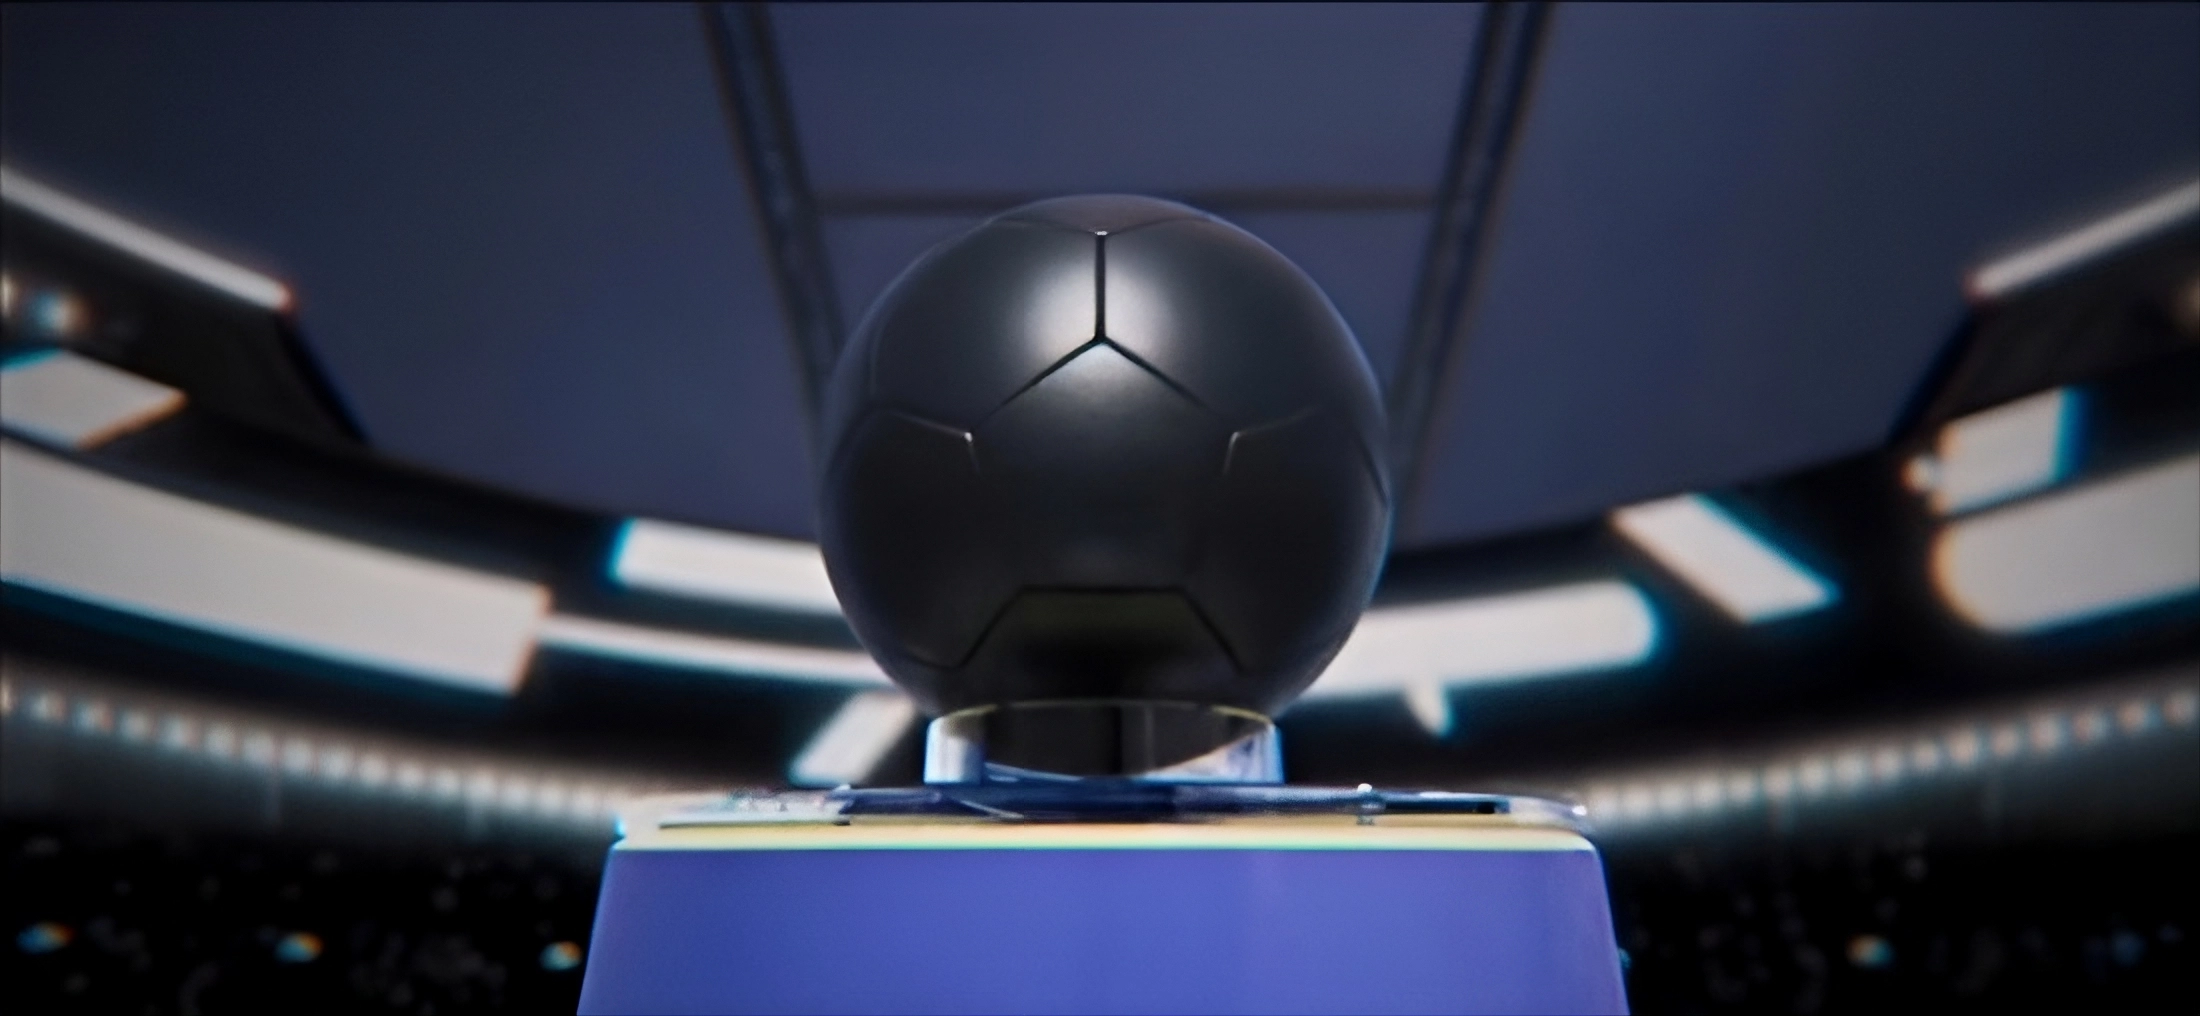
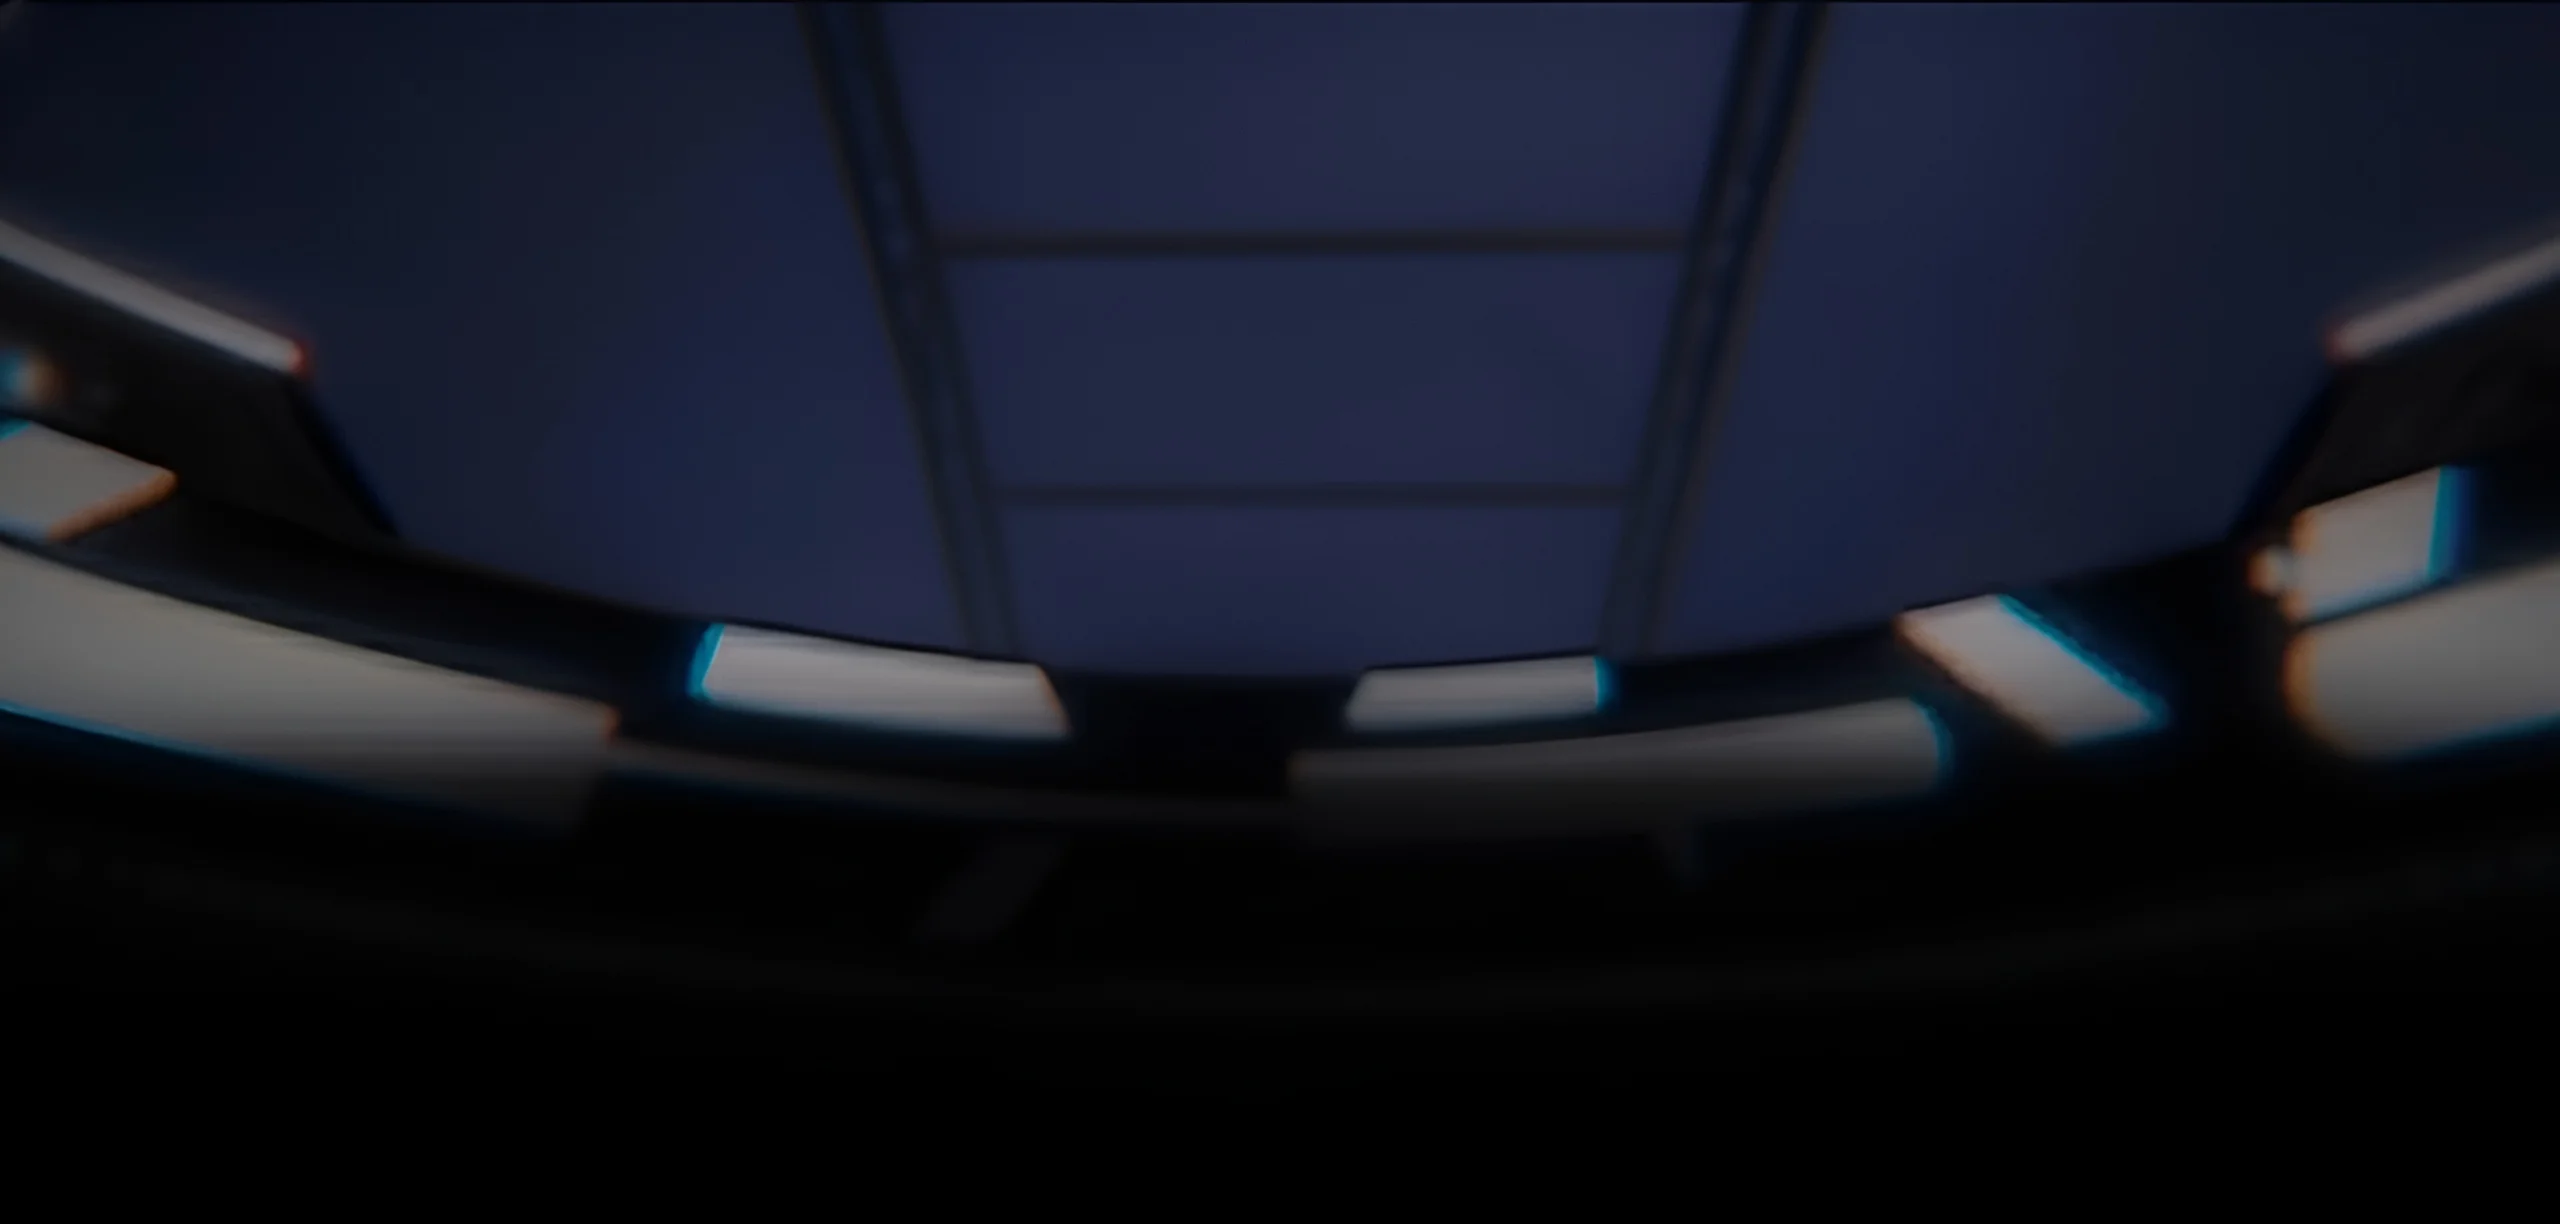
main bg added

diff --git a/assets/js/app.js b/assets/js/app.js
@@ -4770,7 +4770,7 @@ function createPlayerCard(player) {
 
     } else {
         displayPriceHTML = `
-            <img src="https://images-bucket.renderz.app/common_23_noauction"
+            <img src="https://images.zenithfcm.com/unauctionable.png"
                 alt="Non-auctionable"
                 style="height: 18px; width: auto; vertical-align: middle; opacity: 0.9; margin-left: 6px;"
                 title="Non-auctionable">
